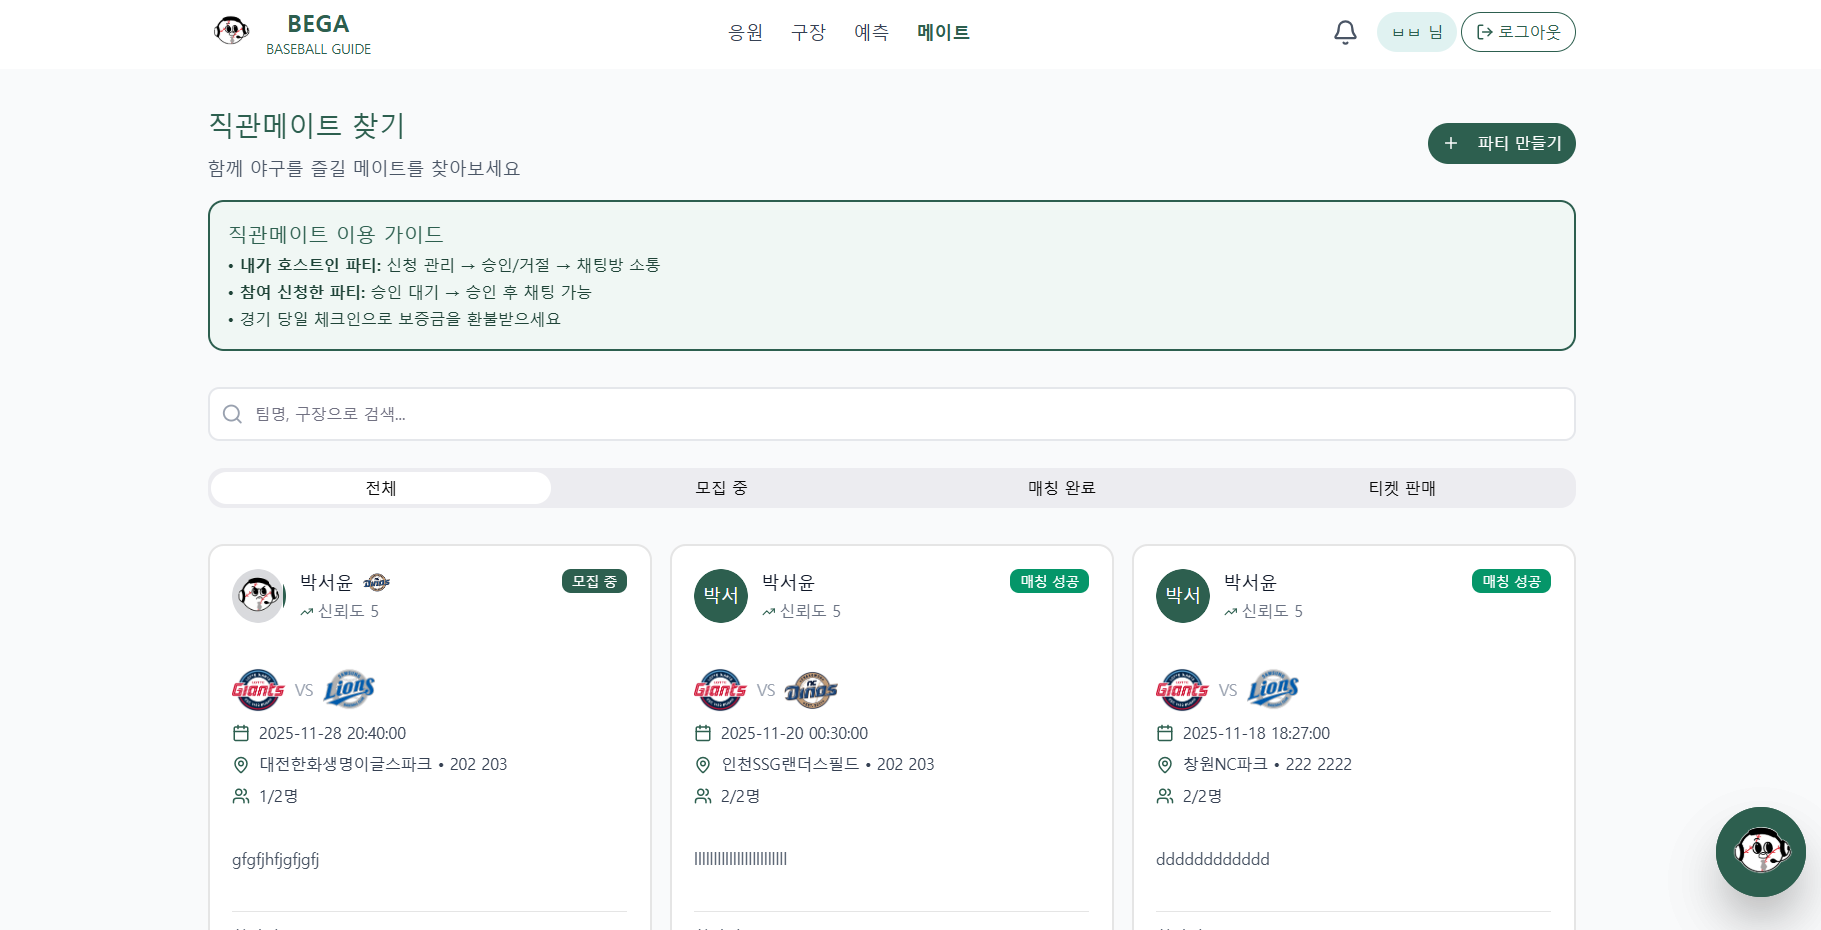
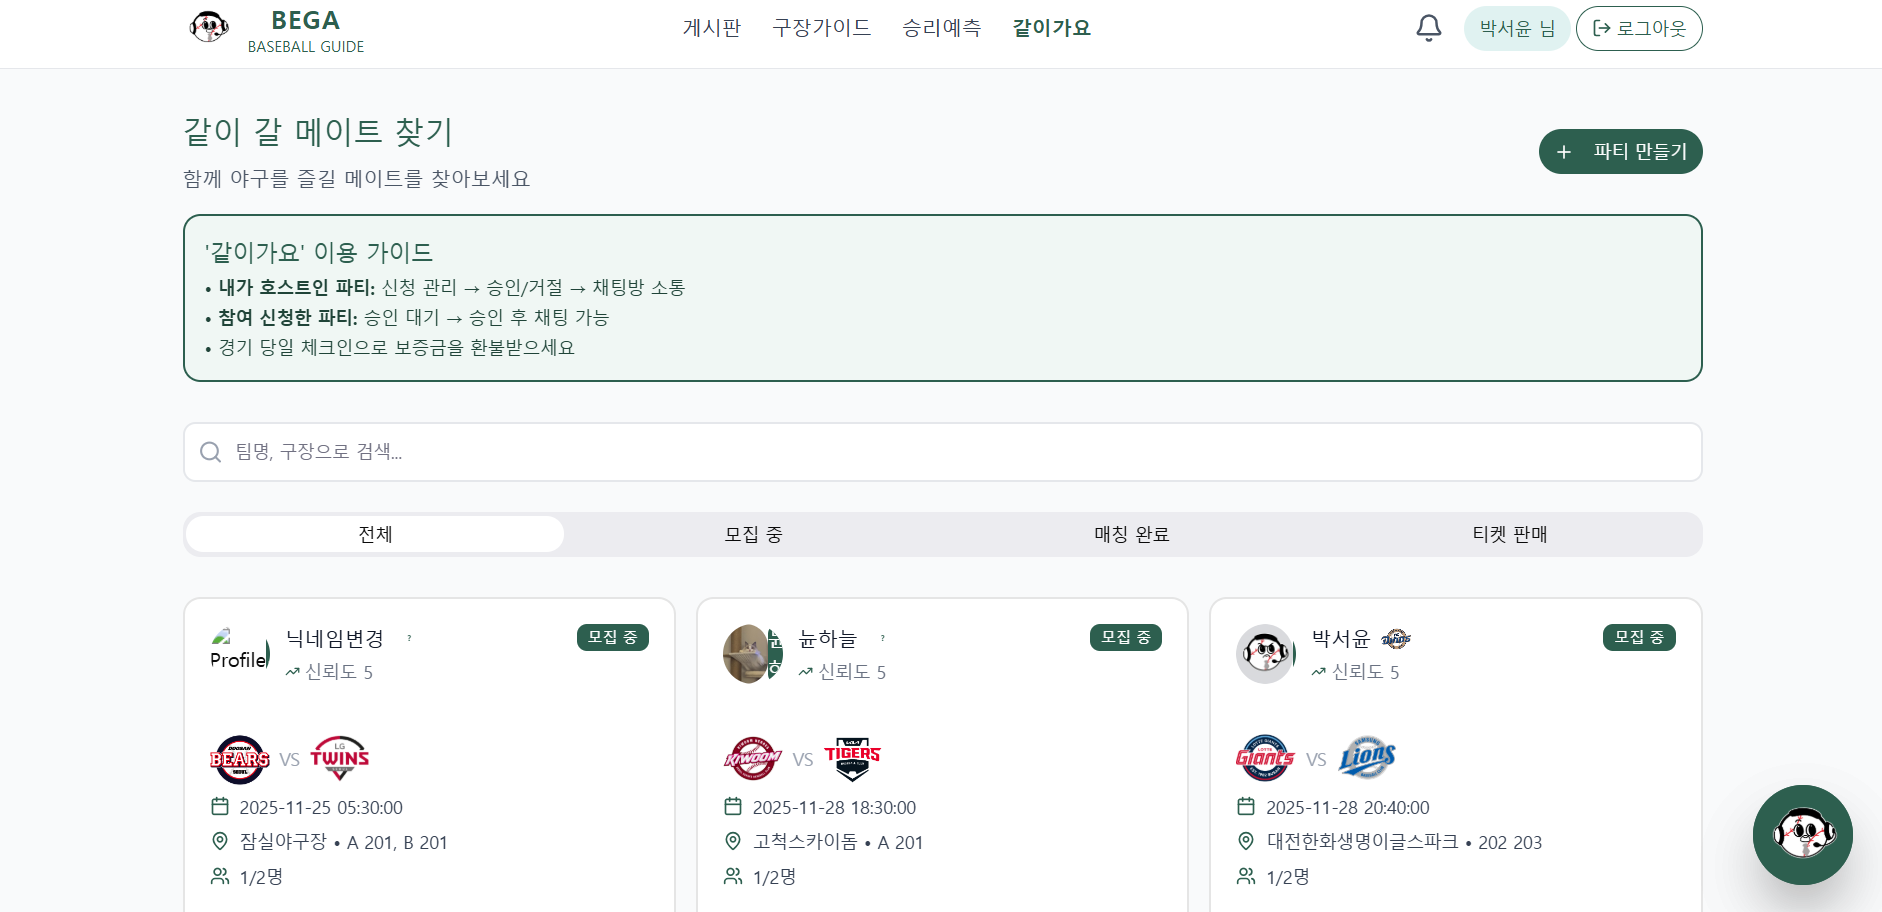
수정/랜딩

diff --git a/src/constants/landing.ts b/src/constants/landing.ts
@@ -43,7 +43,7 @@ export const LANDING_FEATURES: Feature[] = [
   },
   {
     icon: TrendingUp,
-    title: '승부 예측',
+    title: '승리예측',
     description: '순위예측과 승부예측으로 경기를 더 재미있게 즐기세요',
     image: predictionScreenshot,
     guide: [
